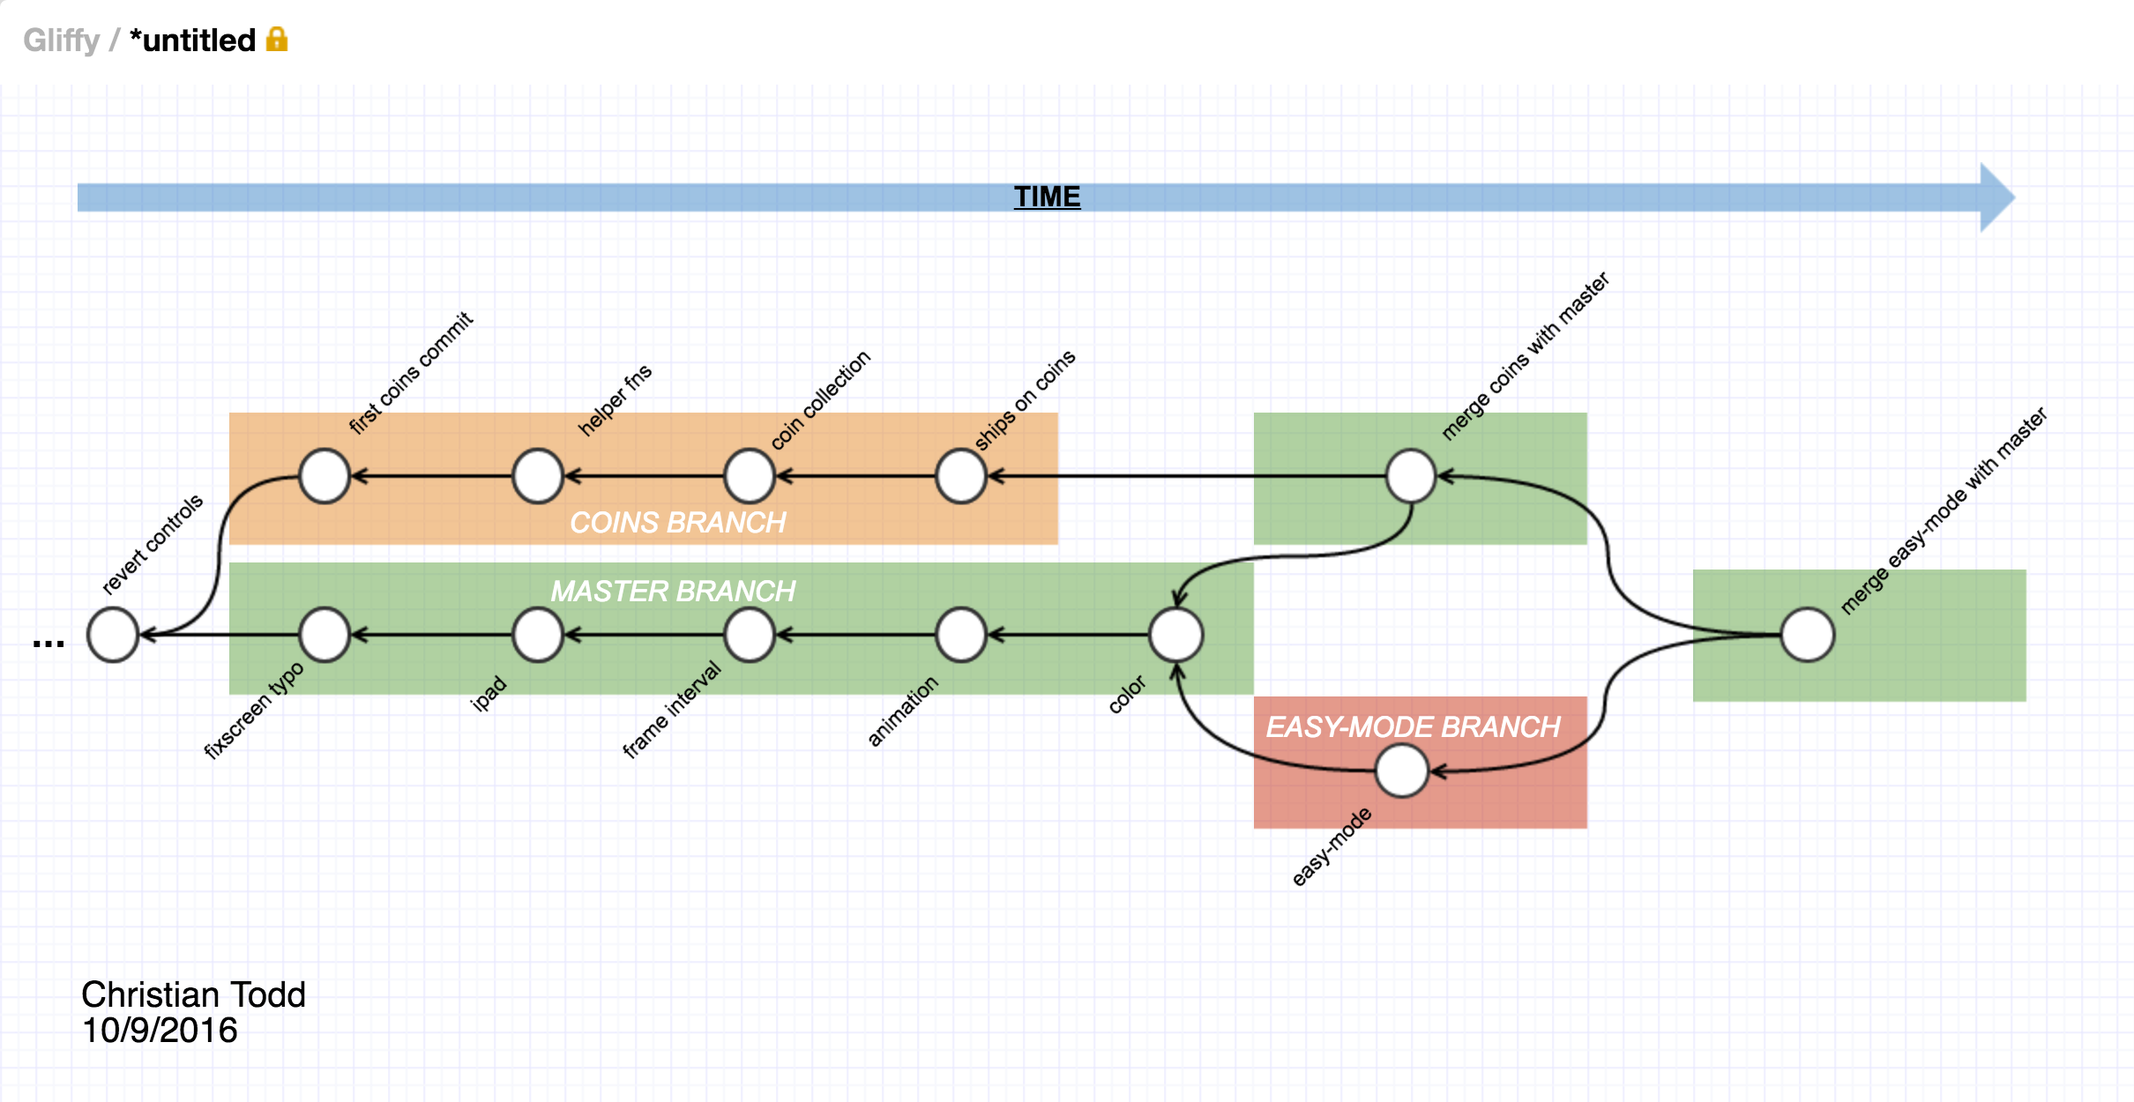
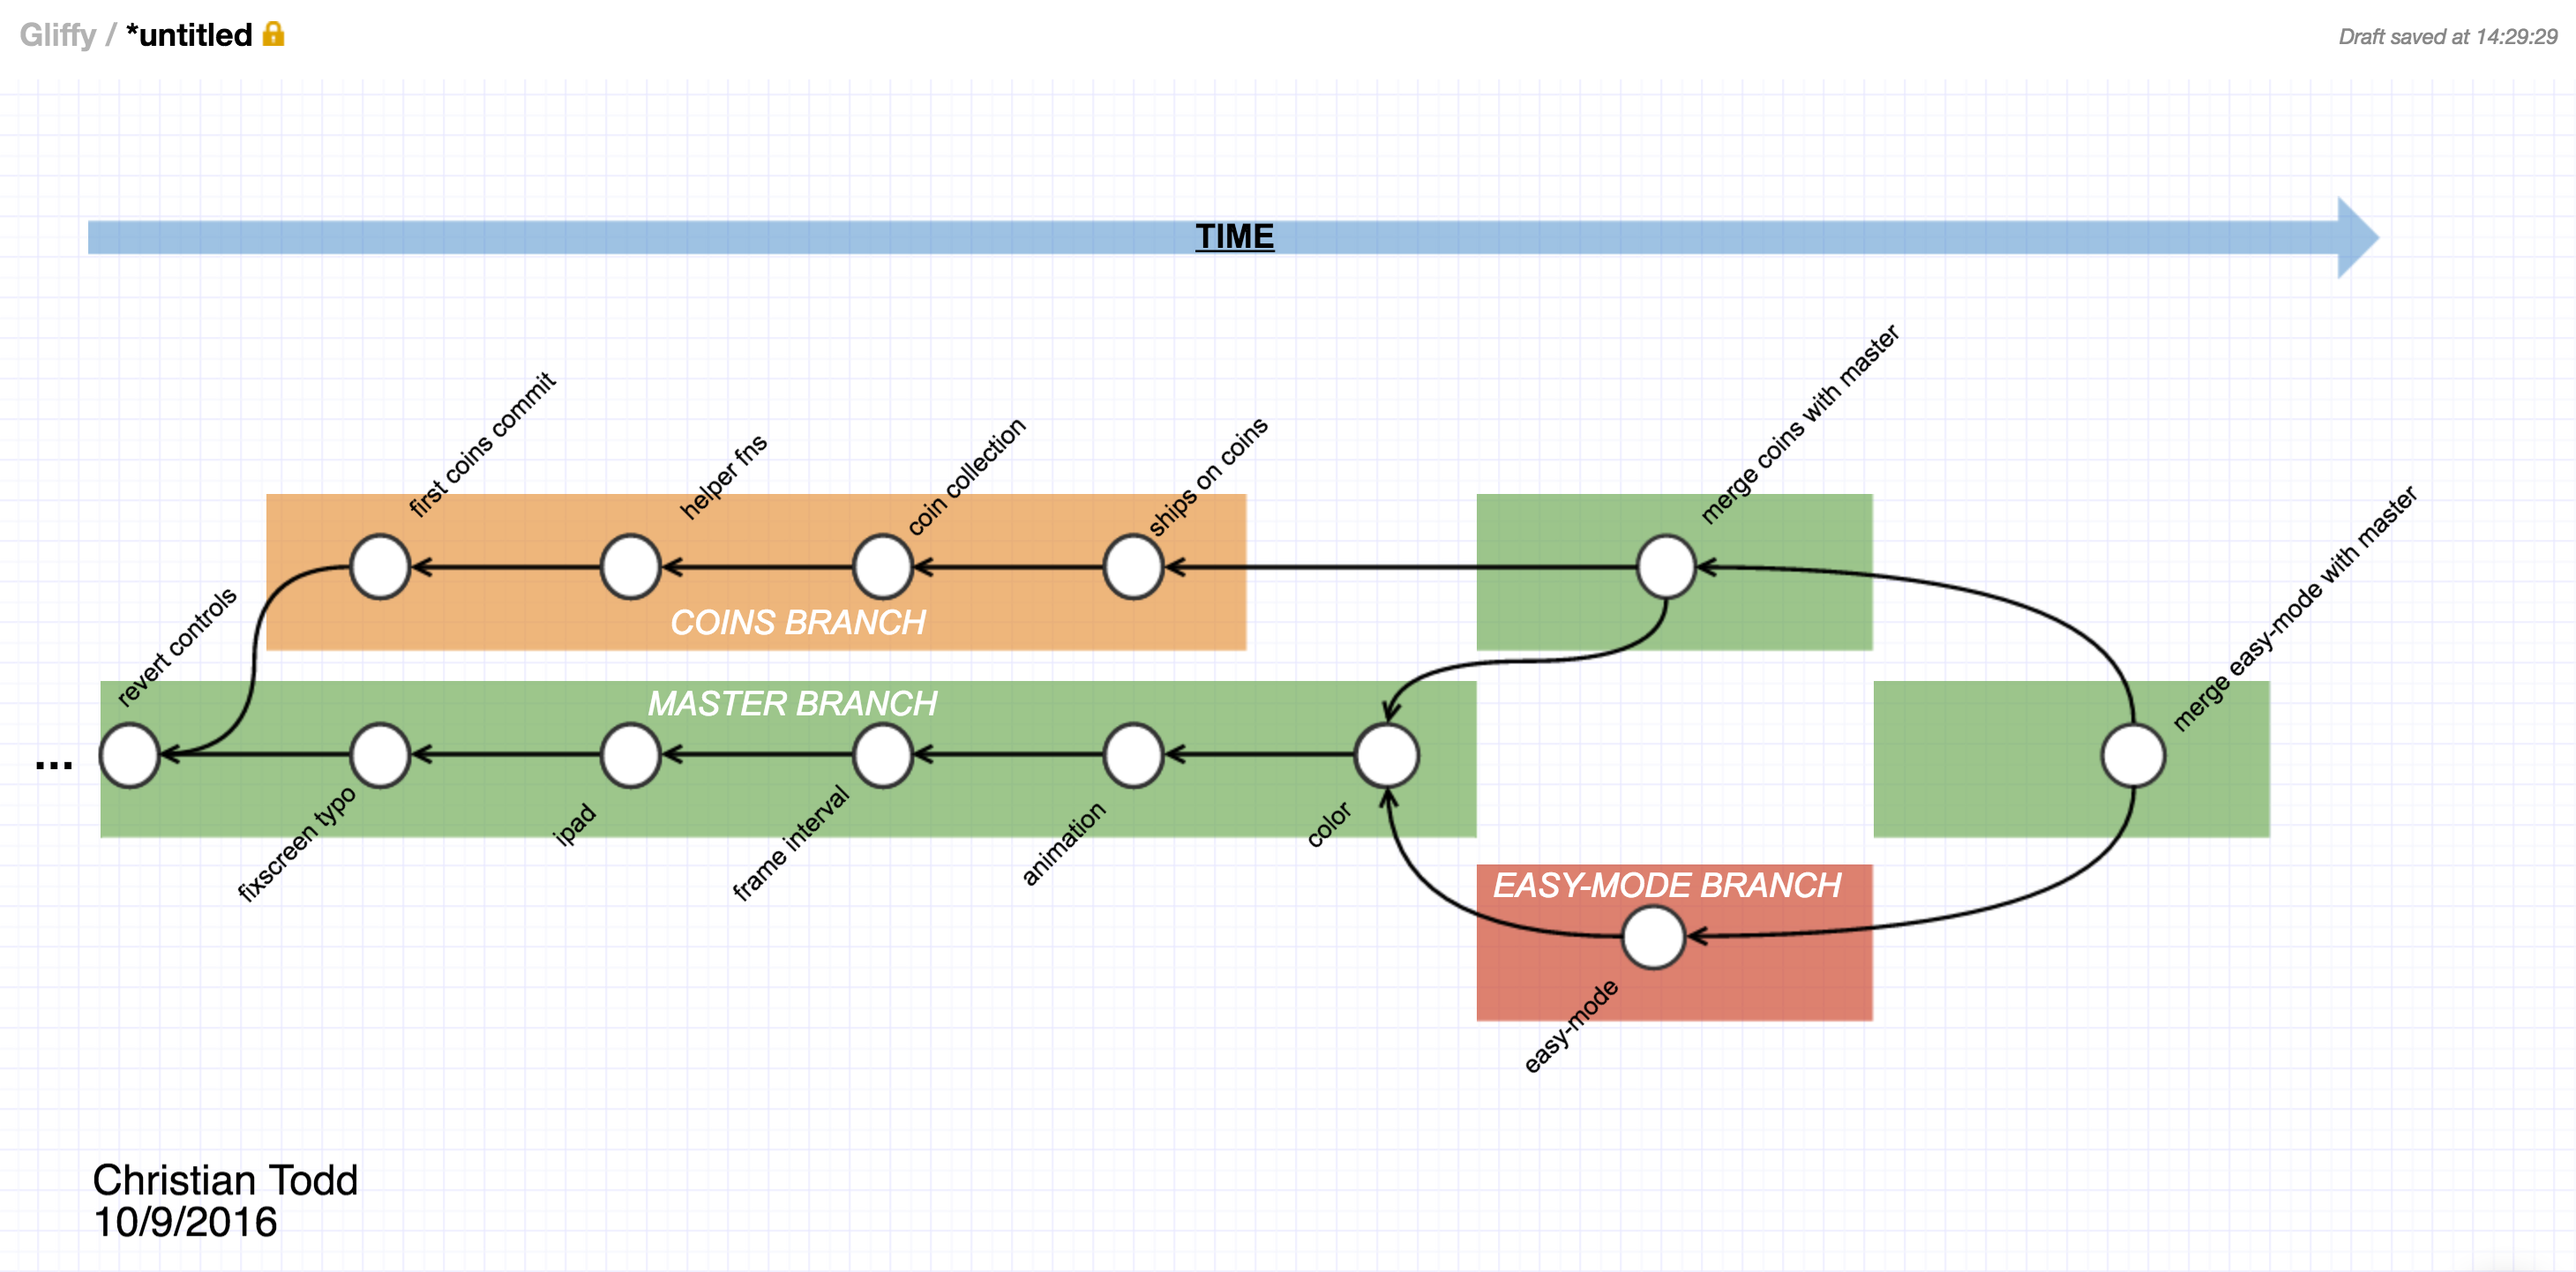
+ add new reflection to lesson-2 dir about automatic vs manual merging. + updated merging branches img.

diff --git a/lesson-2/r-automatic-v-manual-merging.md b/lesson-2/r-automatic-v-manual-merging.md
@@ -1,0 +1,3 @@
+## What are the pros and cons of Git’s automatic merging vs. always doing merges manually?
+
+Merging automatically allows for simple conflicts to be resolved by git, however with more complicated merges, a manual merge will be needed to let the developer reason about what changes they want included in the commit.
